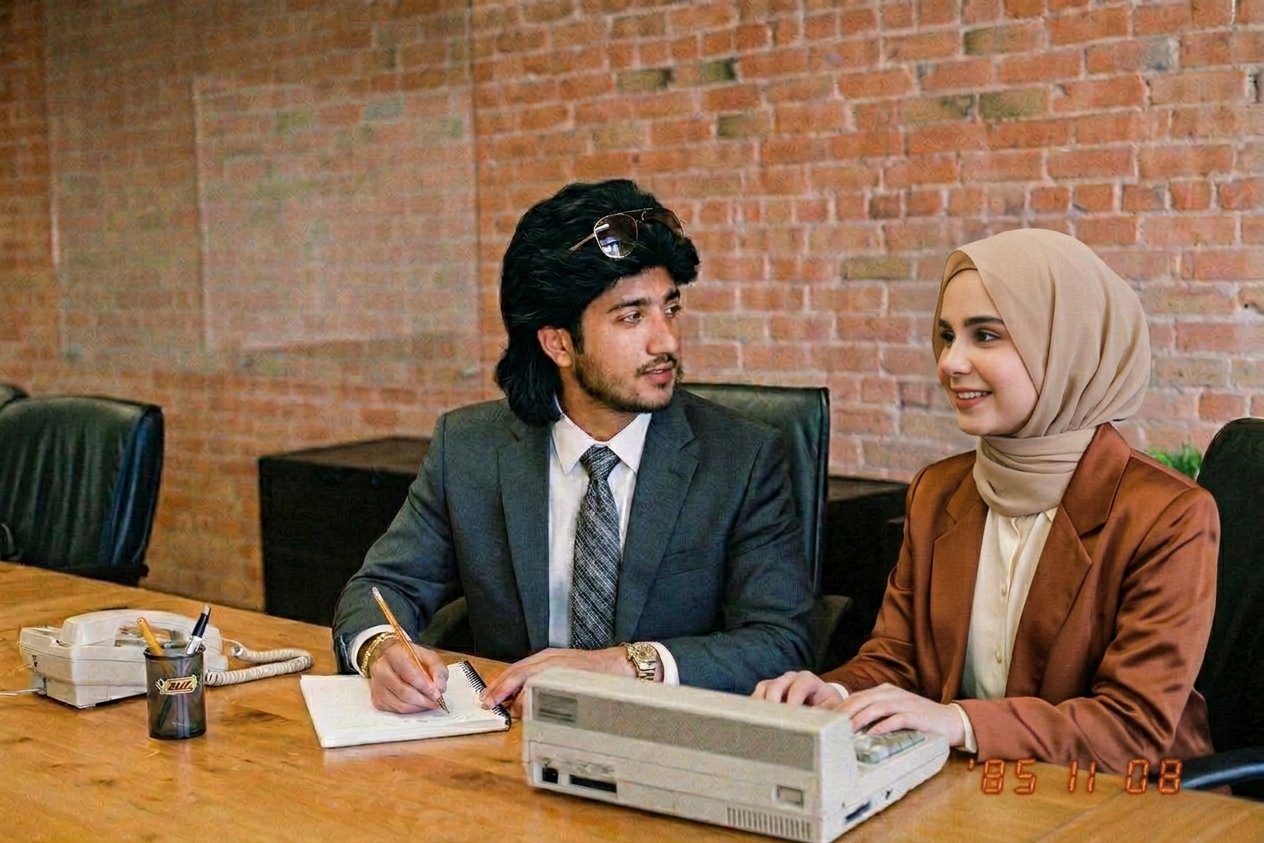
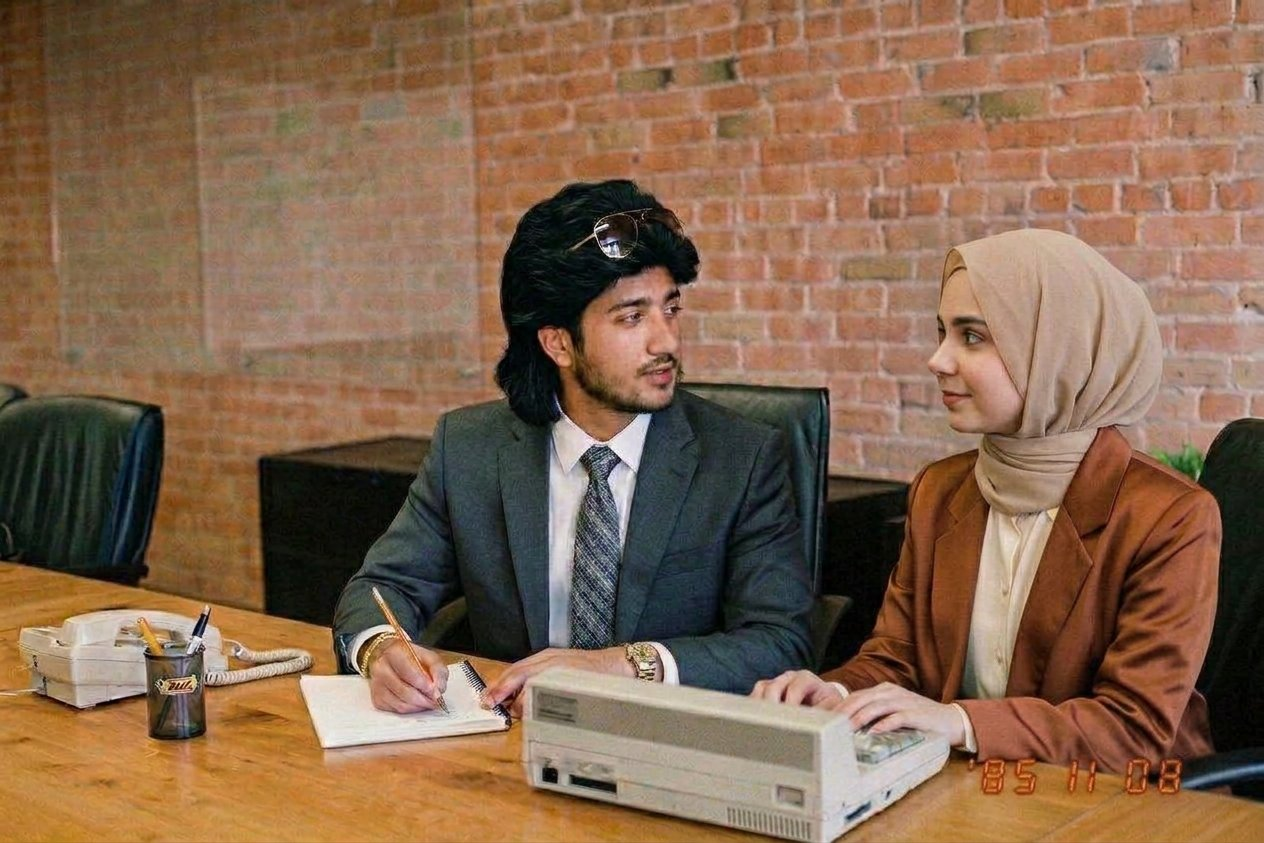
feat: apply organic blob shape to 1985 couple photo in slider 1

diff --git a/src/main/resources/templates/index.html b/src/main/resources/templates/index.html
@@ -29,7 +29,7 @@
                         <div class="w-full h-full flex items-center justify-center">
                             <img th:src="@{/images/1985-couple.jpg}" 
                                  alt="1985 couple portrait" 
-                                 class="max-w-full max-h-full rounded-2xl shadow-2xl object-contain"
+                                 class="max-w-full max-h-full rounded-[40%_60%_70%_30%/40%_50%_60%_50%] shadow-2xl object-contain"
                                  style="aspect-ratio: 1/1;">
                         </div>
                     </div>
